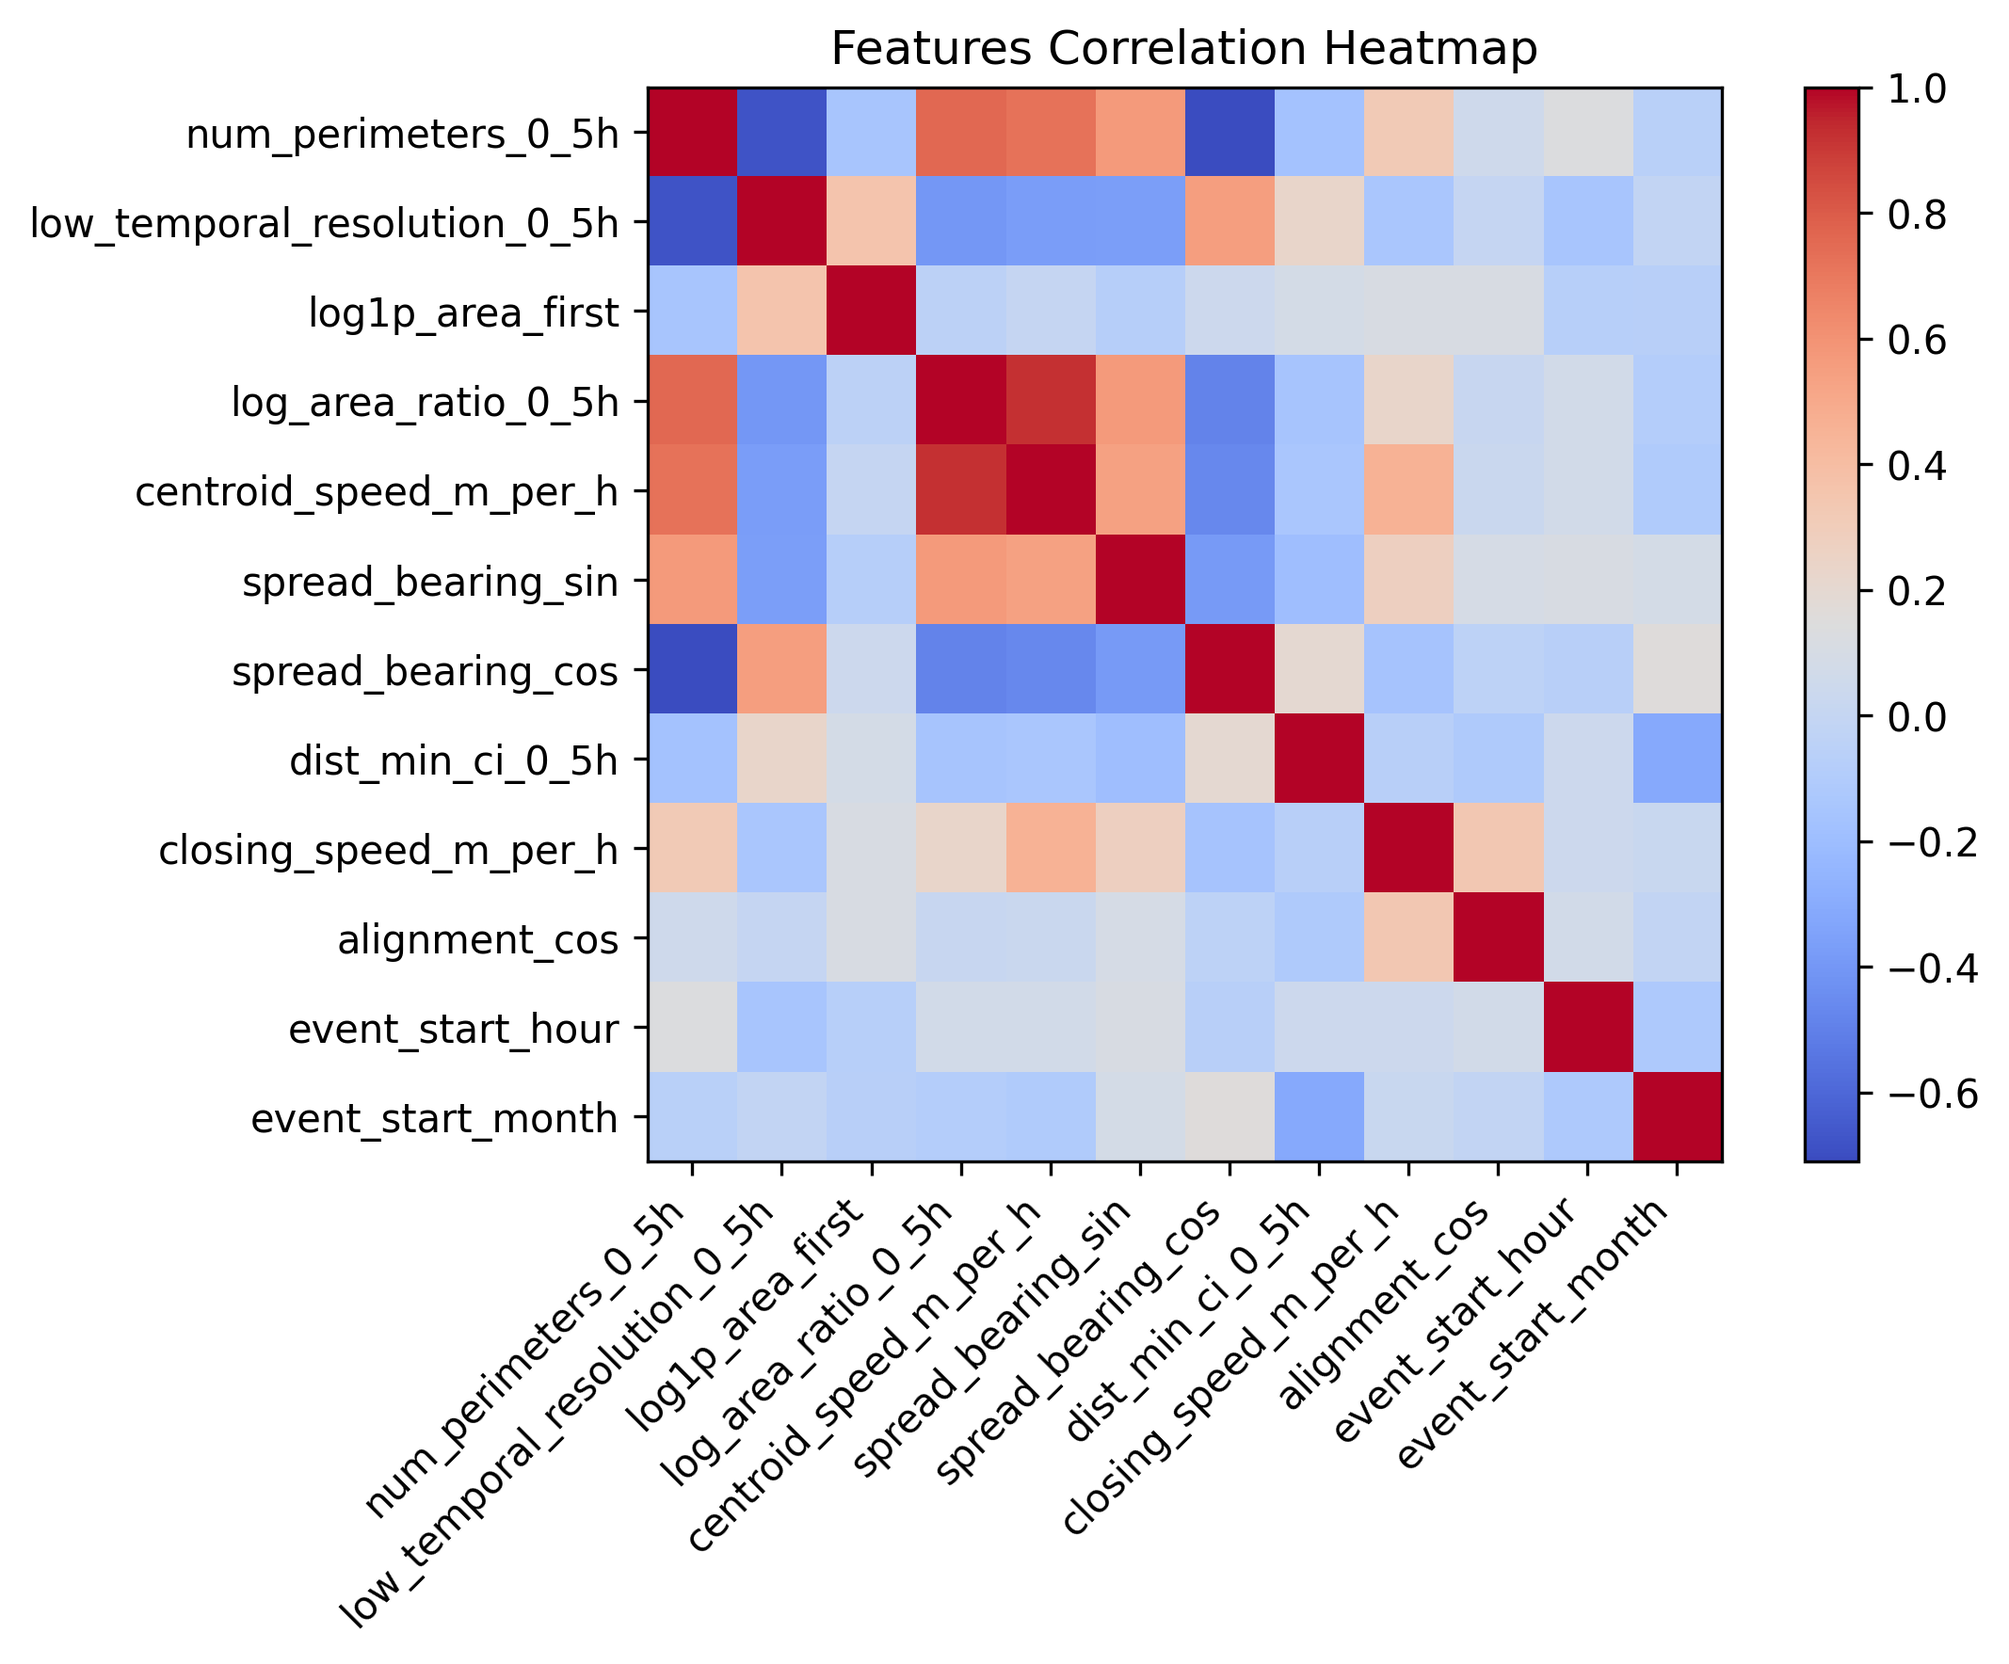
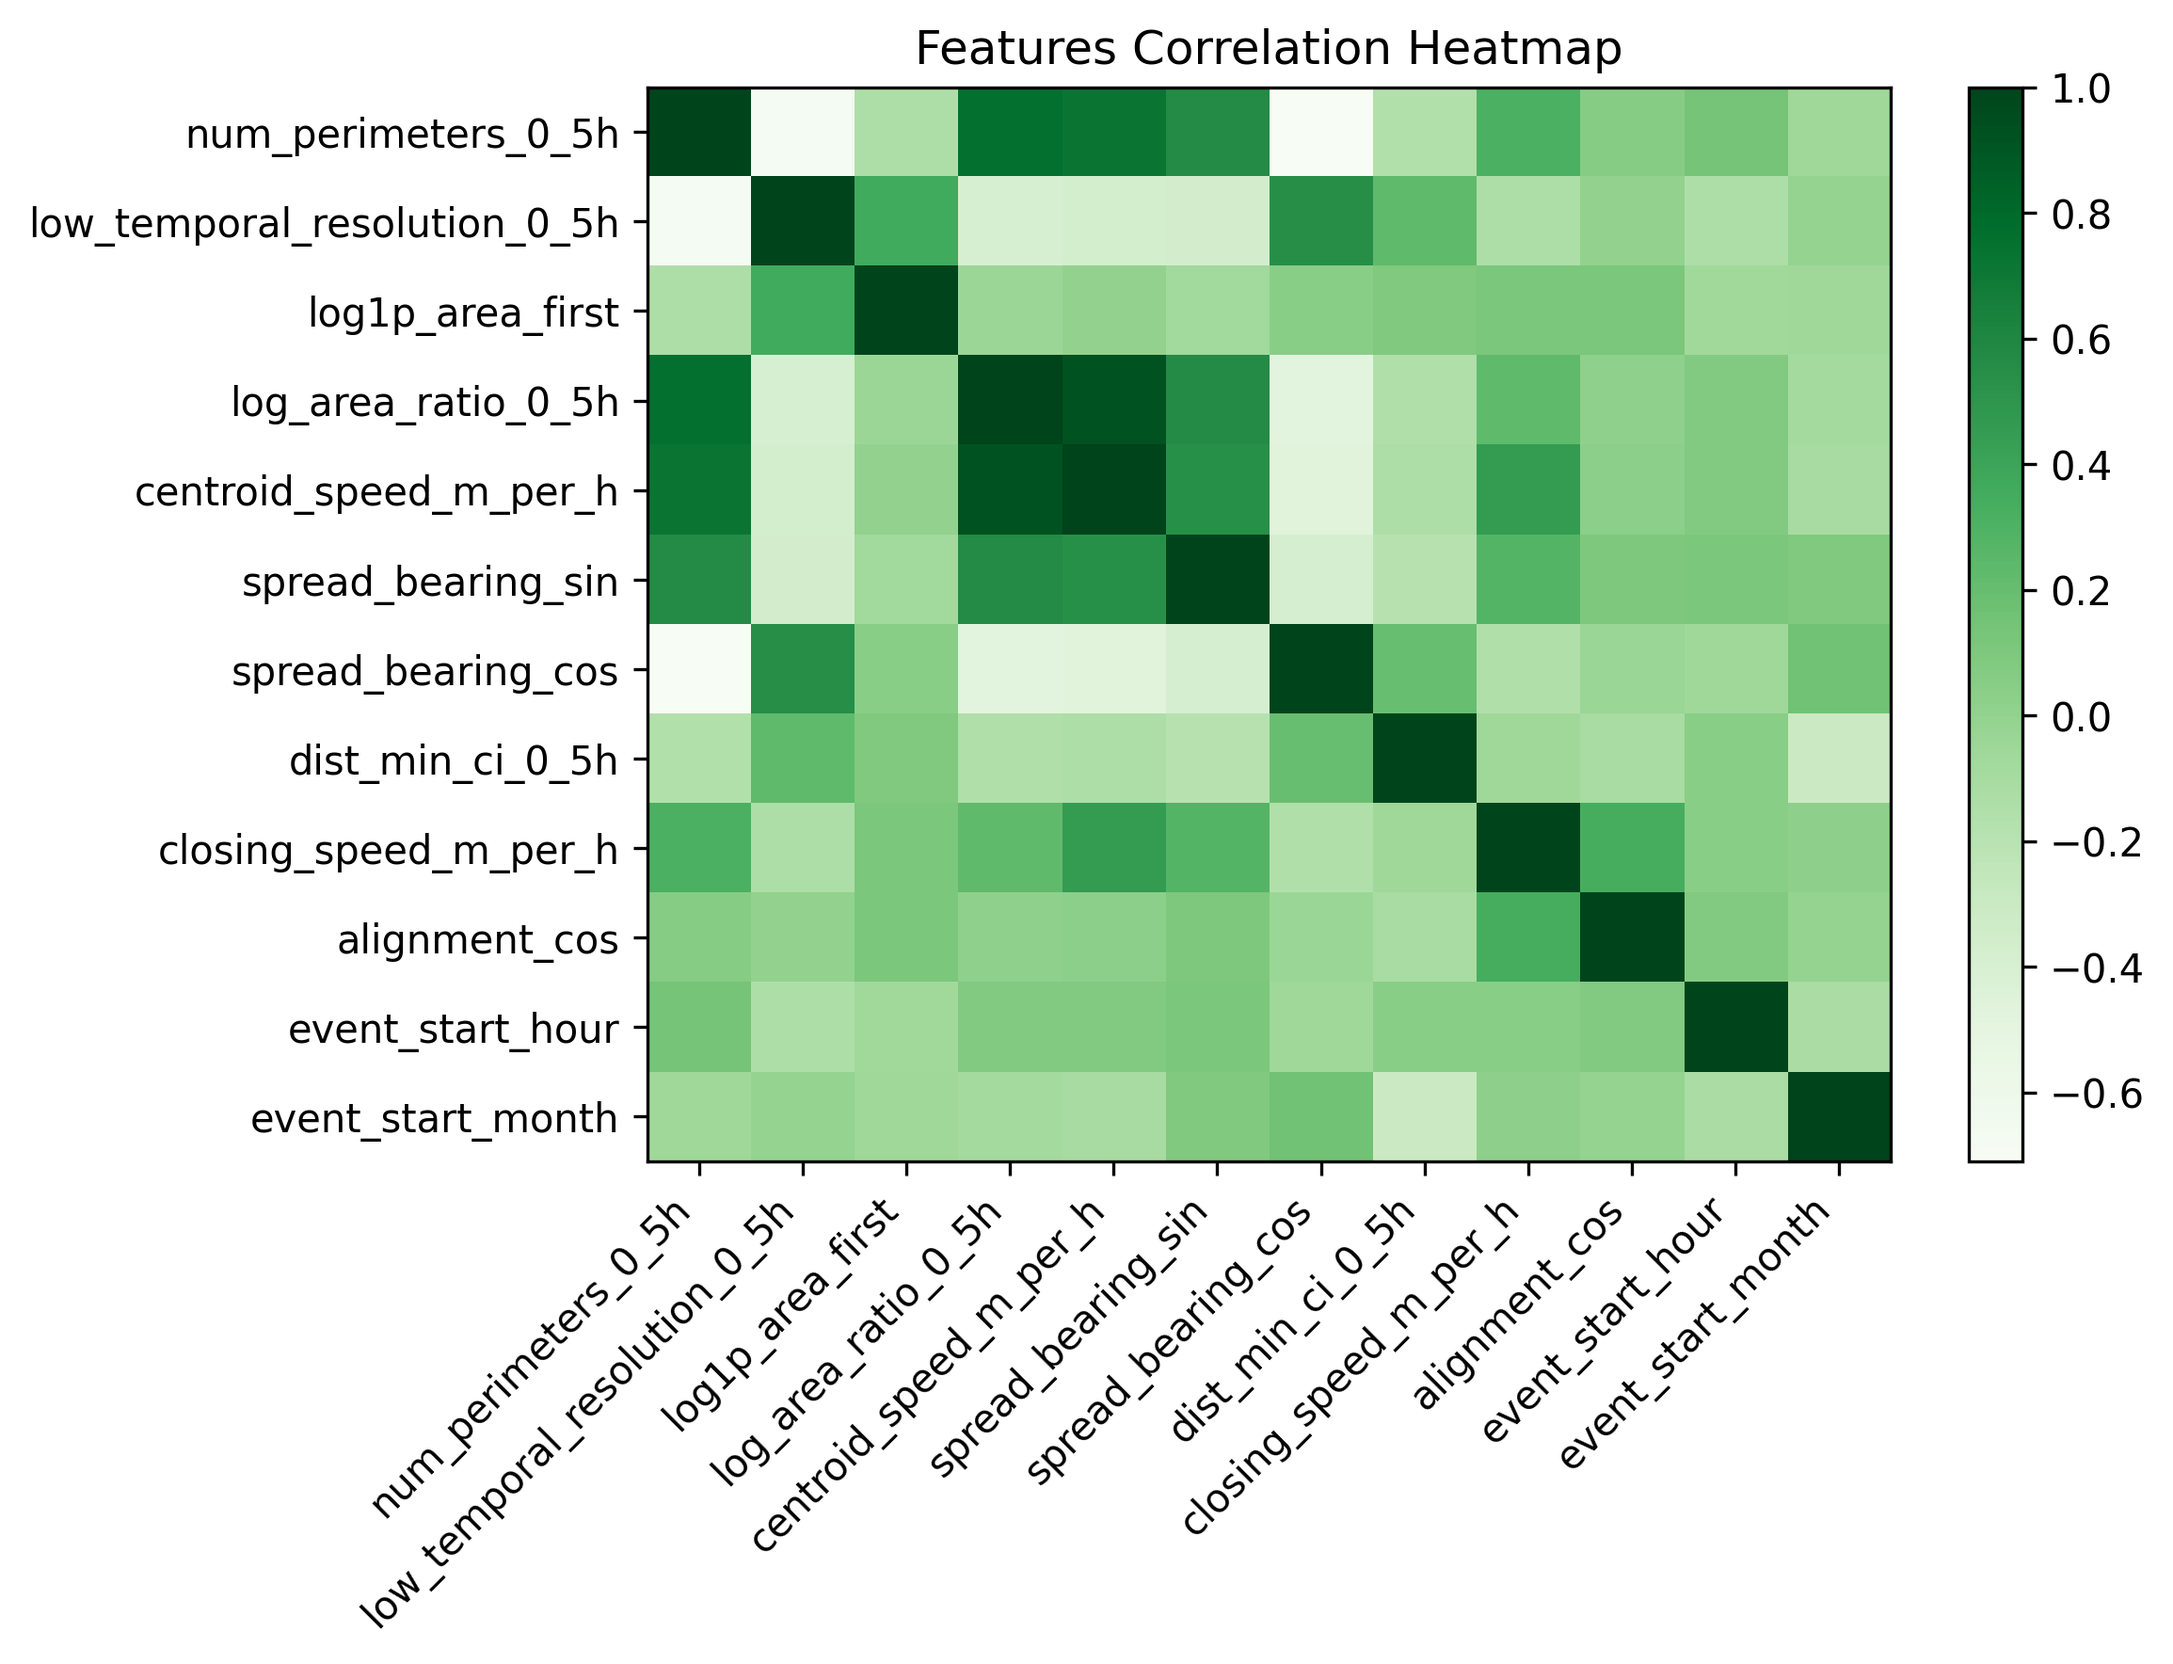
Add green into heatmaps

diff --git a/src/data_visualization.py b/src/data_visualization.py
@@ -187,7 +187,7 @@ def plot_correlation_heatmap(
         show: bool = True):
     fig, ax = plt.subplots(figsize=(8, 6))
     corr = df[feature_cols].corr()
-    im = ax.imshow(corr.to_numpy(), cmap="coolwarm")
+    im = ax.imshow(corr.to_numpy(), cmap="Greens", aspect="auto")
     ax.set_xticks(range(len(corr.columns)))
     ax.set_xticklabels(corr.columns, rotation=45, ha="right")
     ax.set_yticks(range(len(corr.index)))
